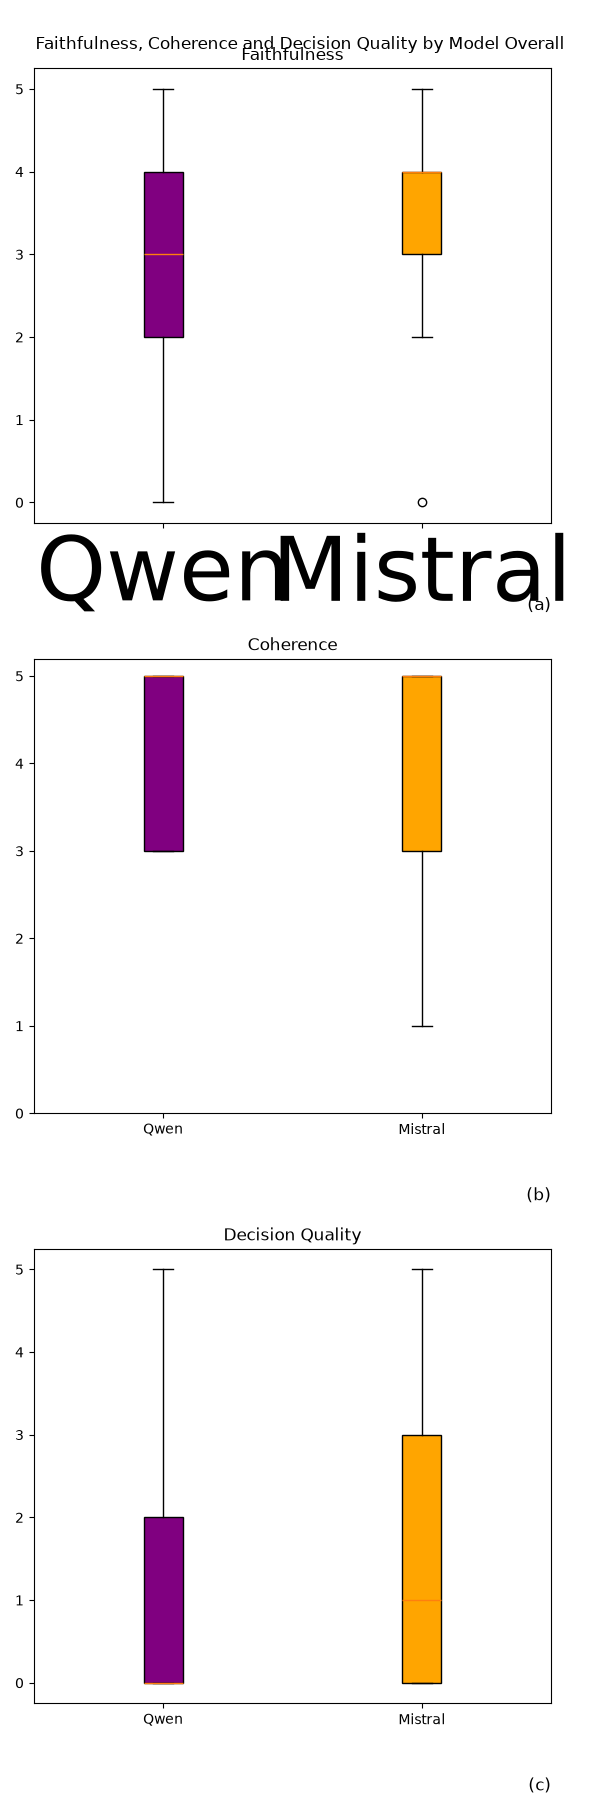
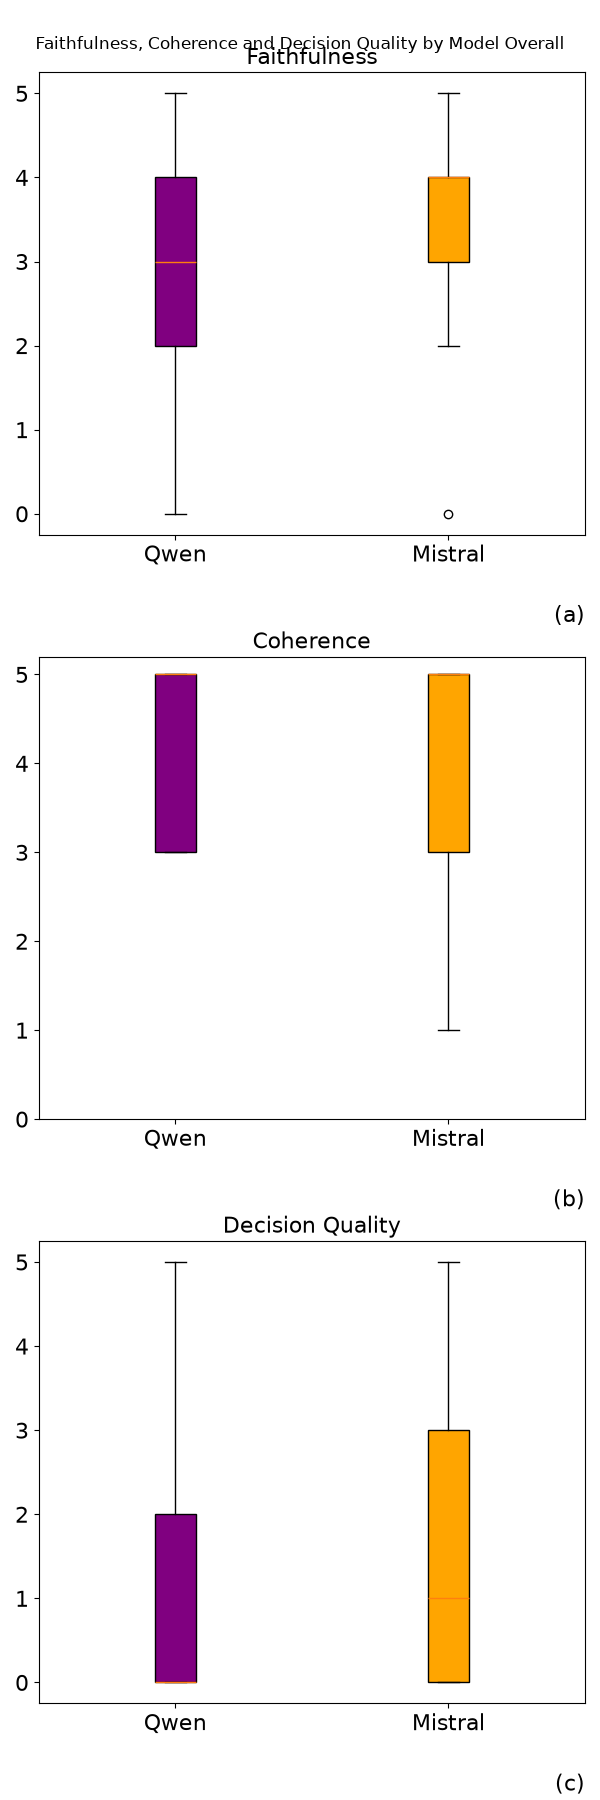
Updated font size on overall

diff --git a/overall.py b/overall.py
@@ -32,15 +32,22 @@ df_cleaned_non_reasoning_dq = non_reasoning.dropna(subset=['Decision Quality'])
 
 
 ax1 = ax[0].boxplot([df_cleaned_reasoning_faithfulness["Faithfulness"], df_cleaned_non_reasoning_faithfulness["Faithfulness"]], tick_labels=["Qwen", "Mistral"], patch_artist=True)
-ax[0].set_title("Faithfulness")
+ax[0].set_title("Faithfulness", fontsize=16)
 
-ax[0].tick_params(axis="x", labelsize=64)
+ax[0].tick_params(axis="x", labelsize=16)
+ax[0].tick_params(axis="y", labelsize=16)
 
 ax2 = ax[1].boxplot([df_cleaned_reasoning_coherence["Coherence"], df_cleaned_non_reasoning_coherence["Coherence"]], tick_labels=["Qwen", "Mistral"], patch_artist=True)
-ax[1].set_title("Coherence")
+ax[1].set_title("Coherence", fontsize=16)
+
+ax[1].tick_params(axis="x", labelsize=16)
+ax[1].tick_params(axis="y", labelsize=16)
 
 ax3 = ax[2].boxplot([df_cleaned_reasoning_dq["Decision Quality"], df_cleaned_non_reasoning_dq["Decision Quality"]], tick_labels=["Qwen", "Mistral"], patch_artist=True)
-ax[2].set_title("Decision Quality")
+ax[2].set_title("Decision Quality", fontsize=16)
+
+ax[2].tick_params(axis="x", labelsize=16)
+ax[2].tick_params(axis="y", labelsize=16)
 
 ax[0].set_yticks([0,1,2,3,4,5])
 ax[1].set_yticks([0,1,2,3,4,5])
@@ -52,7 +59,7 @@ ax[0].text(
     transform=ax[0].transAxes,      
     verticalalignment='bottom',   
     horizontalalignment='right',  
-    fontsize=12,
+    fontsize=16,
     color='Black'
 )
 
@@ -62,7 +69,7 @@ ax[1].text(
     transform=ax[1].transAxes,      
     verticalalignment='bottom',   
     horizontalalignment='right',  
-    fontsize=12,
+    fontsize=16,
     color='Black'
 )
 
@@ -72,7 +79,7 @@ ax[2].text(
     transform=ax[2].transAxes,      
     verticalalignment='bottom',   
     horizontalalignment='right',  
-    fontsize=12,
+    fontsize=16,
     color='Black'
 )
 
